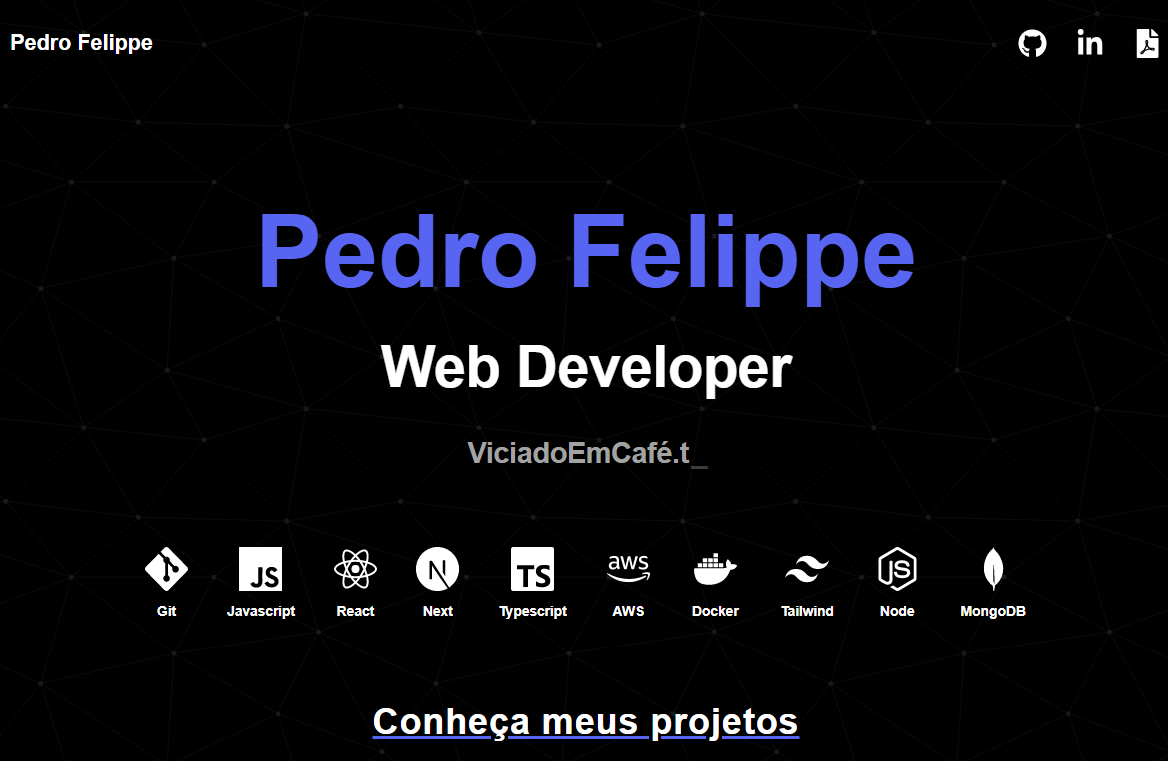
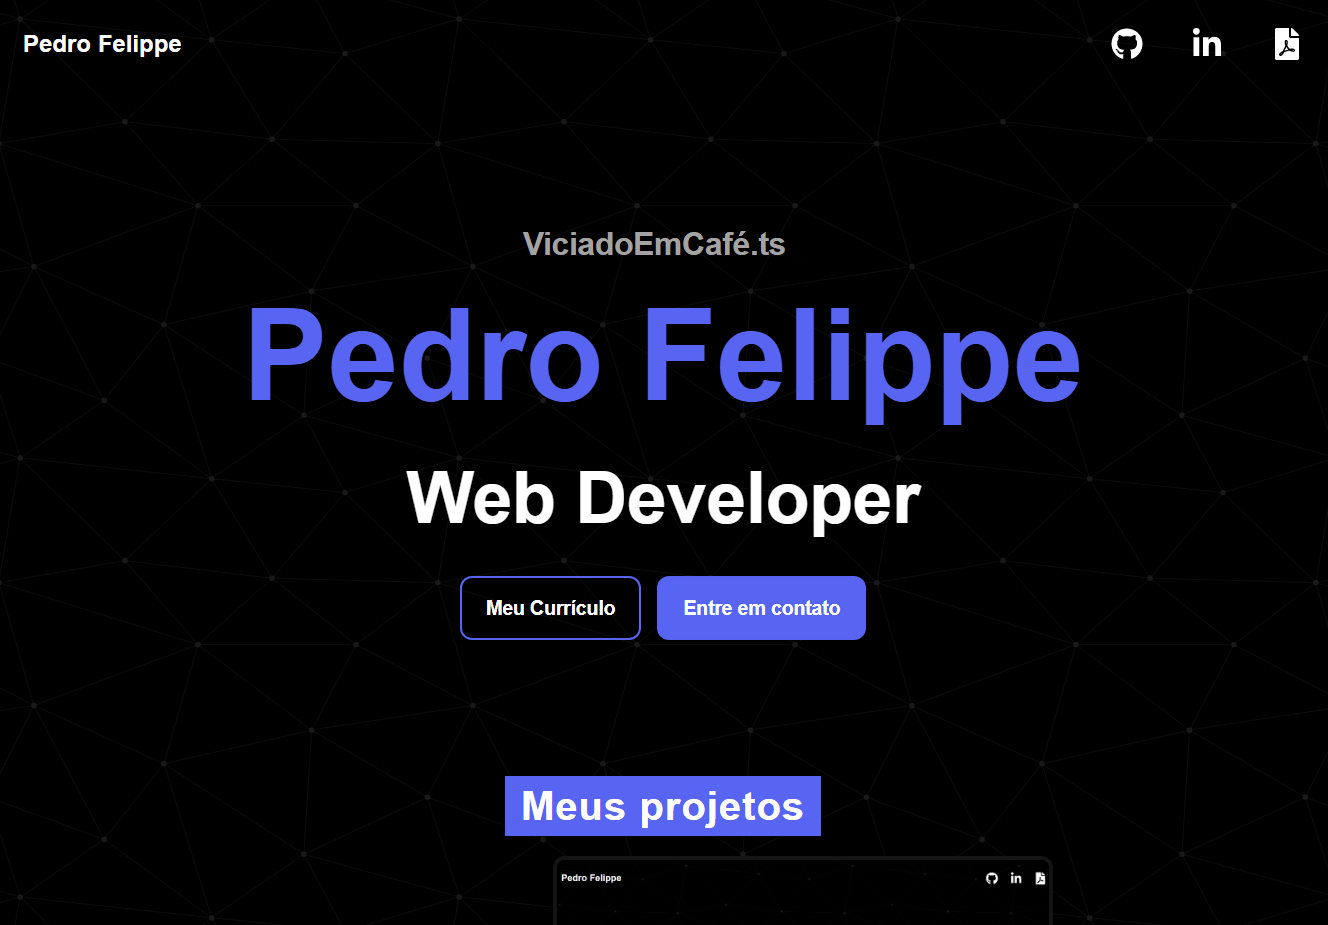
refactor: ajustes

diff --git a/src/components/ProjectCard.tsx b/src/components/ProjectCard.tsx
@@ -19,24 +19,26 @@ function ExperienceCard({
   title,
 }: IProjectCard) {
   return (
-    <motion.article className="flex  flex-col w-full justify-between mx-auto rounded-md transition-all xl:flex-row ">
-      <motion.div className="max-xl:mb-4 xl:mr-20 flex flex-col   justify-center gap-2 w-full xl:w-[200px] ">
+    <motion.article className="flex  flex-col w-full justify-between mx-auto rounded-md transition-all xl:flex-row gap-4 xl:gap-8">
+      <Link href={repo} target="_blank" rel="noopener">
+        <motion.img
+          src={imgUrl}
+          alt="card image"
+          className="object-contain border-[#141414] hover:border-[#202020] border-4 rounded-xl w-[500px] "
+        />
+      </Link>
+
+      <motion.div className=" xl:mr-20 flex flex-col   justify-center gap-2 w-full xl:w-[200px] ">
         <p className="items-center text-[2rem] md:text-[2.5rem] tracking-wider font-bold  text-gray-200 underline decoration-[#5865f2] ">
           {description}
         </p>
 
-        <Link href={link} target="_blank" rel="noopener">
+        <Link href={repo} target="_blank" rel="noopener">
           <button className="flex items-center hover:gap-1 transition-all hover:underline hover:text-[#4454fa]/80 font-semibold">
             Live Demo <FaAngleRight />
           </button>
         </Link>
       </motion.div>
-
-      <motion.img
-        src={imgUrl}
-        alt="card image"
-        className="object-contain border-[#141414] hover:border-[#202020] border-4 rounded-xl w-[500px]"
-      />
     </motion.article>
   );
 }

diff --git a/src/content/Hero.tsx b/src/content/Hero.tsx
@@ -7,7 +7,7 @@ import AnimatedBtn from "../components/motion/AnimatedBtn";
 
 export default function Hero() {
   return (
-    <motion.div className="flex flex-col w-full max-w-7xl  text-center  ">
+    <motion.div className="flex flex-col w-full max-w-7xl  text-center  py-20">
       <div className="xl:space-y-6 font-bold tracking-tight text-white  ">
         <motion.p
           initial={{ y: -25, opacity: 0 }}

diff --git a/pages/index.tsx b/pages/index.tsx
@@ -7,7 +7,7 @@ import About from "./About";
 
 export default function Home() {
   return (
-    <div className="relative flex flex-col mx-auto justify-center items-center max-w-7xl space-y-20 lg:space-y-32 py-20">
+    <div className="relative flex flex-col mx-auto justify-center items-center max-w-7xl space-y-14  py-20">
       <Hero />
       {/* <Skills /> */}
       <Projects />
